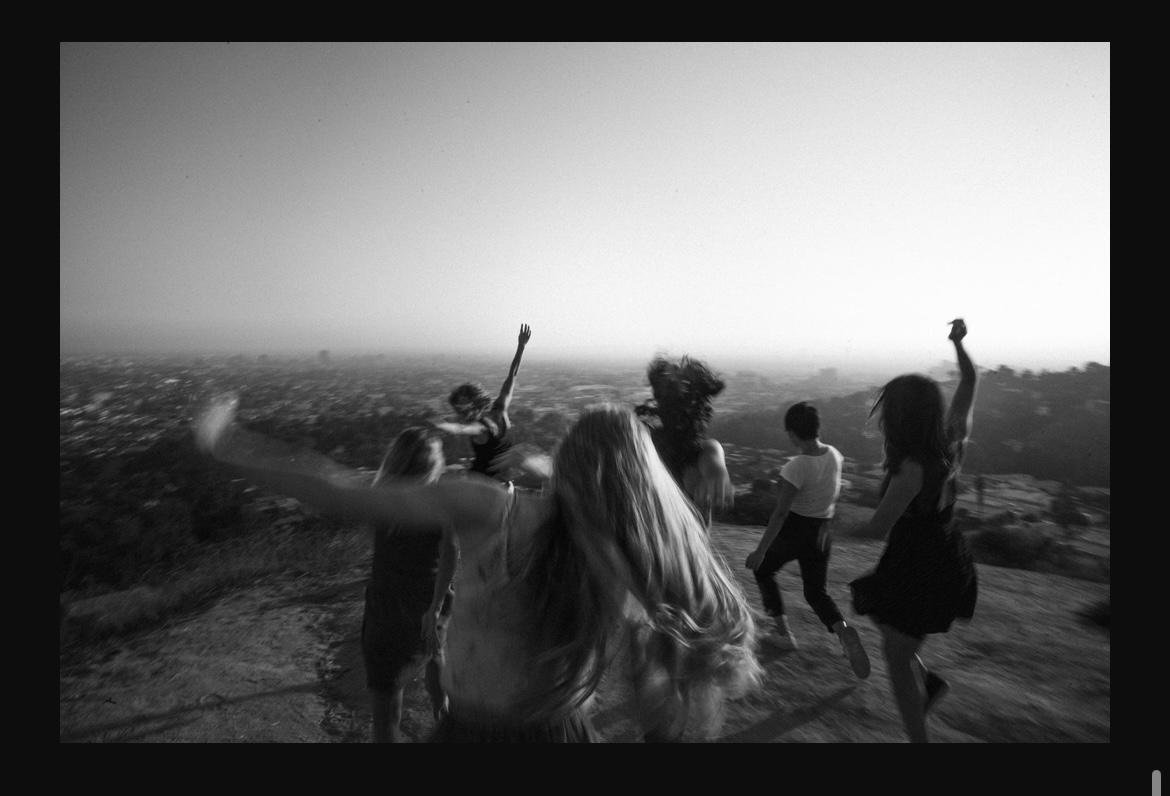
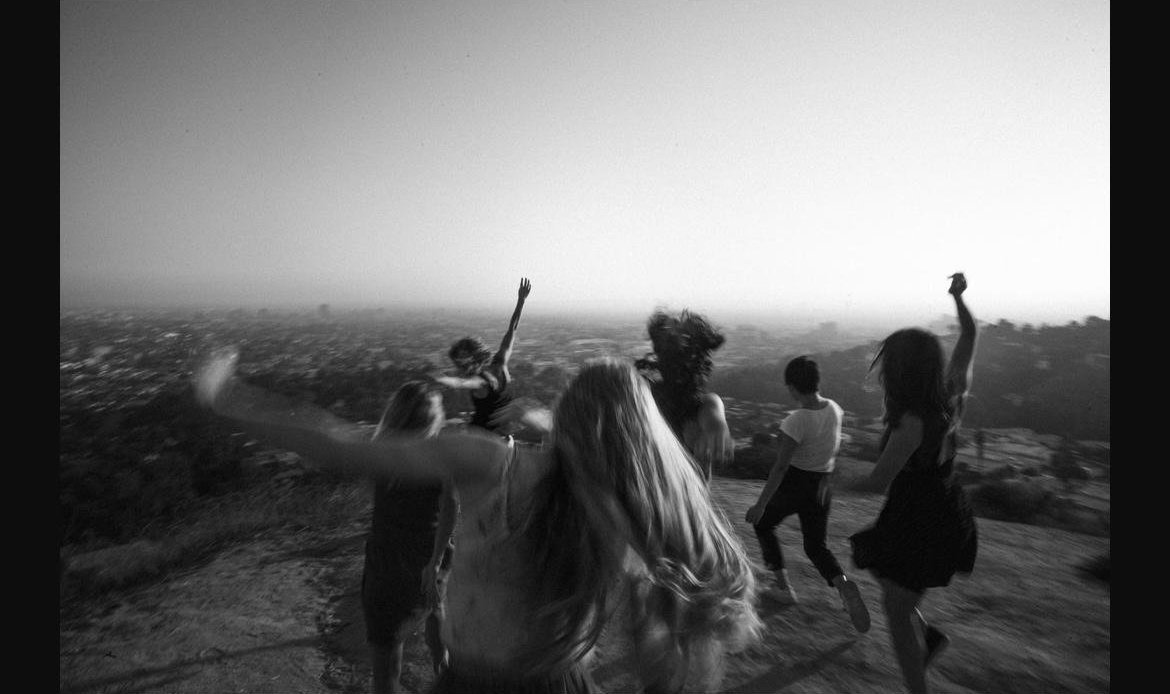
Retreat: crop black bars from Fire Island image; revert green claim bg
- retreat-group.jpg had 42px/54px black letterbox bars baked into the
  file; cropped out (1170x796 -> 1170x694). Image now cover-fills the
  module cleanly, no bars.
- Reverted the green s-claim background from 705b22c per F: green claim
  sitting directly on the green footer read as one continuous bleed.
  Claim back to transparent bg, standard label/CTA colors.
- Verified 1280: claim bg transparent, zero overflow.

diff --git a/style.css b/style.css
@@ -2493,8 +2493,5 @@ a > .label {
 .s-rdl--past .s-rdl__sub { color: var(--ink-dim); }
 
 /* ── Claim: green background matching footer ── */
-.s-claim { background: var(--accent); }
-.s-claim h2 { color: var(--bg) !important; }
-.s-claim .label { color: rgba(240,237,231,0.55); }
-.s-claim .pill-cta { background: var(--bg); border-color: var(--bg); color: var(--accent); }
-.s-claim .pill-cta:hover { background: transparent; border-color: var(--bg); color: var(--bg); }
+/* Claim green-background treatment (705b22c) reverted per F 2026-07-27:
+   green claim sitting directly on green footer read as one bleed. */
